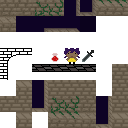
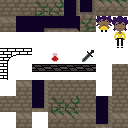
added dominique sprite

Changed region(s): [[0.625, 0.125, 1.0, 0.375], [0.5, 0.375, 0.625, 0.5]]

diff --git a/content/pop-vlog/javascript/2018/018-inventory/inventory.html b/content/pop-vlog/javascript/2018/018-inventory/inventory.html
@@ -28,66 +28,113 @@
 
     <script type = "text/javascript">
 
-    var tile_set = new Image();
-    var tile_size = 16;
-    var map_columns = 16;
-    var map_rows = 12;
-    var map_ratio = map_columns / map_rows;
-    var map_scale = 1;
-    var map = [ 9, 9, 9, 9, 9, 9, 9, 9, 9, 9, 9, 9, 9, 9, 9, 9,
-                9, 9, 9,10,11,12, 9, 9,10,11,12, 9, 9, 9, 9, 9,
-                9, 9,10, 5, 0, 0,12,10, 5, 0, 0, 9, 9, 9, 9, 9,
-                9, 9, 4, 0, 0, 0, 0, 4, 0, 0, 0,12, 9, 9, 9, 9,
-                9,10, 5, 0,11, 5, 0, 5, 0, 5, 0, 0, 9, 9, 9, 9,
-               12, 4, 0, 0, 0, 0, 0, 0, 0, 0, 0, 0,12, 9, 9, 9,
-                0, 5, 0, 4, 0, 3, 0, 9, 9, 4, 0, 2, 0,12, 9, 9,
-                0, 2, 0, 5, 0, 5, 0,11,11, 5, 0, 5, 0, 0,11,11,
-                0, 2, 3, 0, 0, 0, 0, 2, 0, 0, 0, 3, 2, 0, 0, 2,
-                8, 6, 7, 8, 8, 8, 8, 7, 8, 8, 8, 7, 6, 8, 8, 7,
-                1, 1, 1, 1, 1, 1, 1, 1, 1, 1, 1, 1, 1, 1, 1, 1,
-                1, 1, 1, 1, 1, 1, 1, 1, 1, 1, 1, 1, 1, 1, 1, 1];
+      const Sprite = function(x, y, sx, sy, sw, sh) {
 
-    var context = document.querySelector("canvas").getContext("2d");
-    var buffer = document.createElement("canvas").getContext("2d");
+        this.x = x; this.y = y; this.sx = sx; this.sy = sy; this.sw = sw; this.sh = sh;
 
-    var screen_h = document.documentElement.clientHeight - 16;
-    var screen_w = document.documentElement.clientWidth - 16;
+        this.vx = this.vy = 0;
 
-    function loop(time_step) {
+      };
 
-      window.requestAnimationFrame(loop);
+      Sprite.prototype = {
 
-      screen_h = document.documentElement.clientHeight - 16;
-      screen_w = document.documentElement.clientWidth - 16;
+        updatePosition:function(g, f) {
 
-      if (screen_h / buffer.canvas.height < screen_w / buffer.canvas.width) screen_w = screen_h * map_ratio;
-      else screen_h = screen_w / map_ratio;
+          this.vy += g;
 
-      map_scale = screen_h / (map_rows * tile_size);
+          this.x += this.vx;
+          this.y += this.vy;
 
-      context.canvas.height = screen_h;
-      context.canvas.width = screen_w;
-      context.imageSmoothingEnabled = false;
+          this.vx *= f;
+          this.vy *= f;
 
-      for (let index = map.length - 1; index > -1; -- index) {
+          if (this.y + this.sh > 148) {
 
-        let value = map[index];
-        let tile_x = (index % map_columns) * tile_size;
-        let tile_y = Math.floor(index / map_columns) * tile_size;
+            this.y = 148 - this.sh;
+            this.vy = 0;
 
-        buffer.drawImage(tile_set, (value % 8) * tile_size, Math.floor(value / 8) * tile_size, tile_size, tile_size, tile_x, tile_y, tile_size, tile_size);
+          }
+
+        }
+
+      };
+
+      const Player = function(x, y) {
+
+        Sprite.call(this, x, y, 112, 16, 16, 32);
+
+      };
+
+      Object.assign(Player.prototype, Sprite.prototype);
+
+
+      var tile_set = new Image();
+      var tile_size = 16;
+      var map_columns = 16;
+      var map_rows = 12;
+      var map_ratio = map_columns / map_rows;
+      var map_scale = 1;
+      var map = [ 9, 9, 9, 9, 9, 9, 9, 9, 9, 9, 9, 9, 9, 9, 9, 9,
+                  9, 9, 9,10,11,12, 9, 9,10,11,12, 9, 9, 9, 9, 9,
+                  9, 9,10, 5, 0, 0,12,10, 5, 0, 0, 9, 9, 9, 9, 9,
+                  9, 9, 4, 0, 0, 0, 0, 4, 0, 0, 0,12, 9, 9, 9, 9,
+                  9,10, 5, 0,11, 5, 0, 5, 0, 5, 0, 0, 9, 9, 9, 9,
+                 12, 4, 0, 0, 0, 0, 0, 0, 0, 0, 0, 0,12, 9, 9, 9,
+                  0, 5, 0, 4, 0, 3, 0, 9, 9, 4, 0, 2, 0,12, 9, 9,
+                  0, 2, 0, 5, 0, 5, 0,11,11, 5, 0, 5, 0, 0,11,11,
+                  0, 2, 3, 0, 0, 0, 0, 2, 0, 0, 0, 3, 2, 0, 0, 2,
+                  8, 6, 7, 8, 8, 8, 8, 7, 8, 8, 8, 7, 6, 8, 8, 7,
+                  1, 1, 1, 1,13, 1, 1, 1, 1, 1, 1, 1, 1, 1, 1,13,
+                  8, 8, 8, 8, 6, 8, 8, 8, 8, 8, 8, 8, 8, 8, 8, 7];
+
+      var context = document.querySelector("canvas").getContext("2d");
+      var buffer = document.createElement("canvas").getContext("2d");
+
+      var screen_h = document.documentElement.clientHeight - 16;
+      var screen_w = document.documentElement.clientWidth - 16;
+
+      var player = new Player(100, 100, 16, 32);
+
+      function loop(time_step) {
+
+        window.requestAnimationFrame(loop);
+
+        screen_h = document.documentElement.clientHeight - 16;
+        screen_w = document.documentElement.clientWidth - 16;
+
+        if (screen_h / buffer.canvas.height < screen_w / buffer.canvas.width) screen_w = screen_h * map_ratio;
+        else screen_h = screen_w / map_ratio;
+
+        map_scale = screen_h / (map_rows * tile_size);
+
+        context.canvas.height = screen_h;
+        context.canvas.width = screen_w;
+        context.imageSmoothingEnabled = false;
+
+        for (let index = map.length - 1; index > -1; -- index) {
+
+          let value = map[index];
+          let tile_x = (index % map_columns) * tile_size;
+          let tile_y = Math.floor(index / map_columns) * tile_size;
+
+          buffer.drawImage(tile_set, (value % 8) * tile_size, Math.floor(value / 8) * tile_size, tile_size, tile_size, tile_x, tile_y, tile_size, tile_size);
+
+        }
+
+        player.updatePosition(1, 0.9);
+
+        buffer.drawImage(tile_set, player.sx, player.sy, player.sw, player.sh, Math.round(player.x), Math.round(player.y), player.sw, player.sh);
+
+        context.drawImage(buffer.canvas, 0, 0, buffer.canvas.width, buffer.canvas.height, 0, 0, context.canvas.width, context.canvas.height);
 
       }
 
-      context.drawImage(buffer.canvas, 0, 0, buffer.canvas.width, buffer.canvas.height, 0, 0, context.canvas.width, context.canvas.height);
+      buffer.canvas.height = map_rows * tile_size;
+      buffer.canvas.width  = map_columns * tile_size;
+      buffer.imageSmoothingEnabled = false;
 
-    }
-
-    buffer.canvas.height = map_rows * tile_size;
-    buffer.canvas.width  = map_columns * tile_size;
-
-    tile_set.addEventListener("load", (event) => { loop(); });
-    tile_set.src = "inventory.png";
+      tile_set.addEventListener("load", (event) => { loop(); });
+      tile_set.src = "inventory.png";
 
     </script>
 
